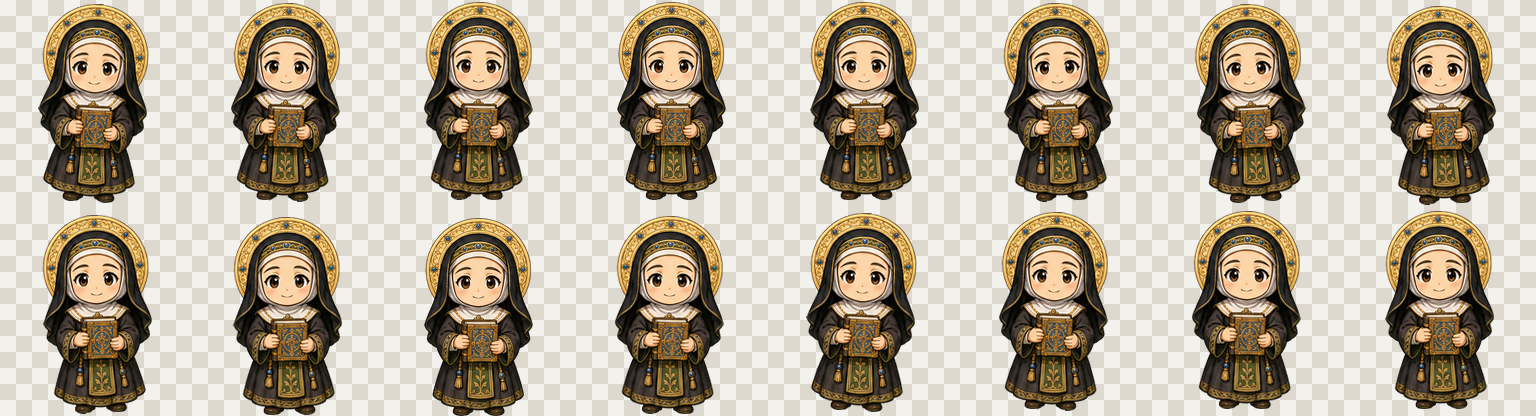
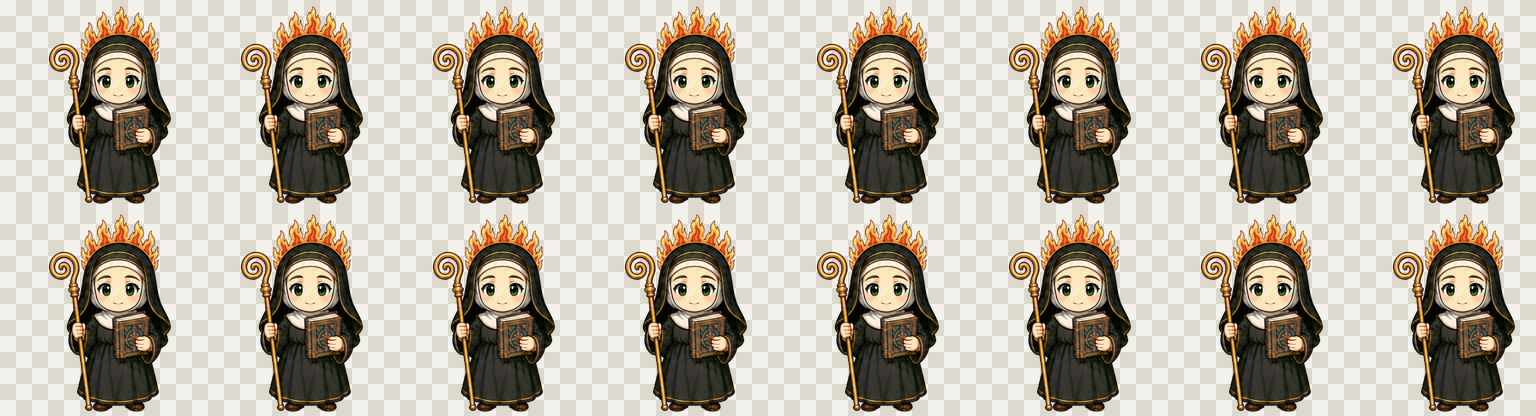
Fix Hildegard artwork and hover animation (#1)
Redraw Hildegard with corrected hands, restrained clothing, deep green eyes, vision flames, book and pastoral staff. Replace jump hover behavior with a grounded wave and remove whole-character jitter.

diff --git a/scripts/build_assets.py b/scripts/build_assets.py
@@ -11,6 +11,7 @@ from PIL import Image, ImageDraw, ImageFont, ImageOps
 
 ROOT = Path(__file__).resolve().parents[1]
 SOURCE = ROOT / "source" / "hildegard-pose-sheet.png"
+ANIMATION_SOURCE = ROOT / "source" / "hildegard-animation-sheet.png"
 ATLAS_PATH = ROOT / "package" / "spritesheet.webp"
 CONTACT_SHEET_PATH = ROOT / "assets" / "contact-sheet.png"
 LOOK_SHEET_PATH = ROOT / "assets" / "look-directions.png"
@@ -28,7 +29,7 @@ ROW_LABELS = (
     "row 1 · running-right",
     "row 2 · running-left",
     "row 3 · waving",
-    "row 4 · jumping",
+    "row 4 · hover-wave",
     "row 5 · failed",
     "row 6 · waiting",
     "row 7 · working",
@@ -37,7 +38,7 @@ ROW_LABELS = (
     "row 10 · look 180–337.5",
 )
 
-ACTIVE_FRAMES = (7, 8, 8, 4, 5, 8, 6, 6, 6, 8, 8)
+ACTIVE_FRAMES = (7, 8, 8, 8, 8, 8, 6, 6, 6, 8, 8)
 
 
 def remove_transparent_rgb(image: Image.Image) -> Image.Image:
@@ -75,6 +76,40 @@ def extract_poses(sheet: Image.Image) -> list[Image.Image]:
                 raise ValueError(f"pose {len(poses)} has no visible pixels")
             poses.append(cell.crop(bbox))
     return poses
+
+
+def extract_animation_rows(sheet: Image.Image) -> tuple[list[Image.Image], list[Image.Image]]:
+    """Extract fixed-alignment wave and idle frames from the 4×2 source sheet."""
+    if sheet.width % 4 or sheet.height % 2:
+        raise ValueError(f"animation sheet must divide into 4×2 cells: {sheet.size}")
+
+    cell_width = sheet.width // 4
+    cell_height = sheet.height // 2
+    rows: list[list[Image.Image]] = []
+    for row in range(2):
+        cells = [
+            sheet.crop(
+                (
+                    column * cell_width,
+                    row * cell_height,
+                    (column + 1) * cell_width,
+                    (row + 1) * cell_height,
+                )
+            )
+            for column in range(4)
+        ]
+        bounds = [cell.getchannel("A").getbbox() for cell in cells]
+        if any(bound is None for bound in bounds):
+            raise ValueError(f"animation row {row} contains an empty frame")
+        visible_bounds = [bound for bound in bounds if bound is not None]
+        union = (
+            min(bound[0] for bound in visible_bounds),
+            min(bound[1] for bound in visible_bounds),
+            max(bound[2] for bound in visible_bounds),
+            max(bound[3] for bound in visible_bounds),
+        )
+        rows.append([cell.crop(union) for cell in cells])
+    return rows[0], rows[1]
 
 
 def render_pose(
@@ -117,48 +152,43 @@ def render_pose(
     return remove_transparent_rgb(frame)
 
 
-def make_rows(poses: list[Image.Image]) -> list[list[Image.Image]]:
+def make_rows(
+    poses: list[Image.Image],
+    wave_sources: list[Image.Image],
+    idle_sources: list[Image.Image],
+) -> list[list[Image.Image]]:
     transparent = Image.new("RGBA", (CELL_WIDTH, CELL_HEIGHT), (0, 0, 0, 0))
     rows: list[list[Image.Image]] = []
 
-    idle_motion = (
-        (0.000, 0),
-        (0.008, -1),
-        (0.014, -2),
-        (0.008, -1),
-        (0.000, 0),
-        (-0.004, 0),
-        (0.000, 0),
-    )
-    idle = [render_pose(poses[0], scale_delta=scale, dy=dy) for scale, dy in idle_motion]
+    idle_order = (0, 0, 1, 2, 2, 1, 3)
+    idle = [render_pose(idle_sources[index]) for index in idle_order]
     rows.append(idle + [transparent.copy()])
 
-    run_motion = ((-3, 0, -2.0), (-1, -3, -1.0), (1, -5, 0.0), (3, -2, 1.0), (3, 0, 2.0), (1, -3, 1.0), (-1, -5, 0.0), (-3, -2, -1.0))
-    rows.append([render_pose(poses[1], dx=dx, dy=dy, angle=angle, max_width=184) for dx, dy, angle in run_motion])
-    rows.append([render_pose(poses[1], dx=-dx, dy=dy, angle=-angle, flip=True, max_width=184) for dx, dy, angle in run_motion])
+    run_motion = ((-2, 0), (-1, -2), (0, -3), (1, -1), (2, 0), (1, -2), (0, -3), (-1, -1))
+    rows.append([render_pose(poses[1], dx=dx, dy=dy, max_width=184) for dx, dy in run_motion])
+    rows.append([render_pose(poses[1], dx=-dx, dy=dy, flip=True, max_width=184) for dx, dy in run_motion])
 
-    wave = [render_pose(poses[3], angle=angle, dy=dy) for angle, dy in ((-1.0, 0), (1.5, -1), (-1.5, 0), (1.0, -1))]
-    rows.append(wave + [transparent.copy() for _ in range(4)])
+    wave_order = (0, 1, 2, 3, 2, 1, 0, 3)
+    wave = [render_pose(wave_sources[index]) for index in wave_order]
+    rows.append(wave)
+    # Codex v2 reserves row 4 for the pointer-hover "jump" state. Reuse the
+    # grounded wave cycle here so hovering never makes Hildegard jump.
+    rows.append([frame.copy() for frame in wave])
 
-    jump = [render_pose(poses[4], dy=dy, angle=angle, max_width=184) for dy, angle in ((0, -1.0), (-17, -2.0), (-34, 0.0), (-17, 2.0), (0, 1.0))]
-    rows.append(jump + [transparent.copy() for _ in range(3)])
+    rows.append([render_pose(poses[5]) for _ in range(8)])
 
-    rows.append([render_pose(poses[5], dx=dx, angle=angle) for dx, angle in ((0, 0), (-3, -1.4), (3, 1.4), (-2, -1.0), (2, 1.0), (-1, -0.5), (1, 0.5), (0, 0))])
-
-    waiting = [render_pose(poses[6], scale_delta=scale, dy=dy) for scale, dy in ((0, 0), (0.005, -1), (0.010, -1), (0.005, 0), (0, 0), (-0.003, 0))]
+    waiting = [render_pose(poses[6]) for _ in range(6)]
     rows.append(waiting + [transparent.copy() for _ in range(2)])
 
-    working = [render_pose(poses[7], dx=dx, dy=dy, angle=angle, max_width=188, max_height=194) for dx, dy, angle in ((0, 0, 0), (-1, 0, -0.8), (0, -1, 0), (1, 0, 0.8), (0, 0, 0), (-1, -1, -0.5))]
+    working = [render_pose(poses[7], max_width=188, max_height=194) for _ in range(6)]
     rows.append(working + [transparent.copy() for _ in range(2)])
 
-    review = [render_pose(poses[8], dx=dx, dy=dy, scale_delta=scale) for dx, dy, scale in ((0, 0, 0), (-1, -1, 0.004), (0, -2, 0.008), (1, -1, 0.004), (0, 0, 0), (0, 0, -0.003))]
+    review = [render_pose(poses[8]) for _ in range(6)]
     rows.append(review + [transparent.copy() for _ in range(2)])
 
-    upper_look = [render_pose(poses[0], dx=dx, dy=dy, angle=angle) for dx, dy, angle in ((-5, 1, -3.0), (-4, -1, -2.0), (-2, -3, -1.0), (0, -4, 0), (2, -3, 1.0), (4, -1, 2.0), (5, 1, 3.0), (3, 2, 2.0))]
-    rows.append(upper_look)
-
-    lower_look = [render_pose(poses[0], dx=dx, dy=dy, angle=angle) for dx, dy, angle in ((3, 3, 2.0), (1, 4, 1.0), (-1, 4, 0), (-3, 3, -1.0), (-5, 2, -3.0), (-4, 0, -2.0), (-2, -2, -1.0), (1, -2, 1.0))]
-    rows.append(lower_look)
+    look_frame = render_pose(idle_sources[0])
+    rows.append([look_frame.copy() for _ in range(8)])
+    rows.append([look_frame.copy() for _ in range(8)])
 
     if len(rows) != ROWS or any(len(row) != COLUMNS for row in rows):
         raise AssertionError("atlas row construction failed")
@@ -234,8 +264,10 @@ def save_idle_gif(frames: list[Image.Image]) -> None:
 
 def main() -> None:
     source = Image.open(SOURCE).convert("RGBA")
+    animation_source = Image.open(ANIMATION_SOURCE).convert("RGBA")
     poses = extract_poses(source)
-    rows = make_rows(poses)
+    wave_sources, idle_sources = extract_animation_rows(animation_source)
+    rows = make_rows(poses, wave_sources, idle_sources)
     atlas = build_atlas(rows)
 
     ROOT.joinpath("package").mkdir(exist_ok=True)
@@ -247,7 +279,7 @@ def main() -> None:
     build_look_sheet(rows).save(LOOK_SHEET_PATH, "PNG", optimize=True)
     save_idle_gif(rows[0][:7])
 
-    report = {"source": str(SOURCE.relative_to(ROOT)), "sourceSize": list(source.size), "poseCount": len(poses), "atlas": str(ATLAS_PATH.relative_to(ROOT)), "atlasSize": list(atlas.size), "grid": [COLUMNS, ROWS], "cellSize": [CELL_WIDTH, CELL_HEIGHT], "activeFrames": list(ACTIVE_FRAMES)}
+    report = {"source": str(SOURCE.relative_to(ROOT)), "sourceSize": list(source.size), "animationSource": str(ANIMATION_SOURCE.relative_to(ROOT)), "animationSourceSize": list(animation_source.size), "poseCount": len(poses), "atlas": str(ATLAS_PATH.relative_to(ROOT)), "atlasSize": list(atlas.size), "grid": [COLUMNS, ROWS], "cellSize": [CELL_WIDTH, CELL_HEIGHT], "activeFrames": list(ACTIVE_FRAMES)}
     BUILD_REPORT_PATH.write_text(json.dumps(report, ensure_ascii=False, indent=2) + "\n", encoding="utf-8")
     print(f"Built {ATLAS_PATH.relative_to(ROOT)}: {atlas.size[0]}×{atlas.size[1]}")
     print("Generated contact sheet, look-direction sheet, idle GIF and build report")

diff --git a/scripts/validate.py b/scripts/validate.py
@@ -7,7 +7,7 @@ import json
 import math
 from pathlib import Path
 
-from PIL import Image, ImageFilter
+from PIL import Image, ImageChops, ImageFilter
 
 
 ROOT = Path(__file__).resolve().parents[1]
@@ -88,6 +88,39 @@ def main() -> None:
     visible_pixels = sum(alpha > 0 for _, _, _, alpha in rgba_pixels)
     assert visible_pixels > 250_000, f"unexpected visible coverage: {visible_pixels}"
 
+    def atlas_cell(row: int, column: int) -> Image.Image:
+        left = column * EXPECTED_CELL_SIZE[0]
+        top = row * EXPECTED_CELL_SIZE[1]
+        return image.crop(
+            (
+                left,
+                top,
+                left + EXPECTED_CELL_SIZE[0],
+                top + EXPECTED_CELL_SIZE[1],
+            )
+        )
+
+    idle_foot_baselines = [
+        atlas_cell(0, column).getchannel("A").getbbox()[3]
+        for column in range(7)
+    ]
+    assert len(set(idle_foot_baselines)) == 1, (
+        f"idle baseline jitter: {idle_foot_baselines}"
+    )
+
+    wave_foot_baselines = [
+        atlas_cell(3, column).getchannel("A").getbbox()[3]
+        for column in range(8)
+    ]
+    assert len(set(wave_foot_baselines)) == 1, (
+        f"wave baseline jitter: {wave_foot_baselines}"
+    )
+    assert all(
+        ImageChops.difference(atlas_cell(3, column), atlas_cell(4, column)).getbbox()
+        is None
+        for column in range(8)
+    ), "hover row must reuse the grounded wave cycle"
+
     fringe_pixels = chroma_fringe_count(image)
     assert fringe_pixels == 0, f"source chroma fringe pixels: {fringe_pixels}"
 
@@ -108,6 +141,9 @@ def main() -> None:
         "grid": list(EXPECTED_GRID),
         "cellSize": list(EXPECTED_CELL_SIZE),
         "visiblePixels": visible_pixels,
+        "idleFootBaselines": idle_foot_baselines,
+        "waveFootBaselines": wave_foot_baselines,
+        "hoverState": "grounded-wave",
         "transparentRgbResiduePixels": transparent_rgb_residue,
         "sourceChromaFringePixels": fringe_pixels,
         "utf8Readback": "passed",

diff --git a/qa/asset-prompt.md b/qa/asset-prompt.md
@@ -4,9 +4,9 @@ Use case: stylized-concept
 
 Asset type: 3×3 production pose sheet for an animated Codex desktop pet
 
-Primary request: Create one original chibi character design of Hildegard von Bingen, shown in exactly nine separate full-body poses in a precise 3×3 layout. Each cell contains the same character with identical face, costume, proportions, palette, and rendering style. The nine poses, left to right and top to bottom: 1 calm front-facing idle holding a closed illuminated manuscript; 2 brisk walking/running toward the right holding the manuscript securely; 3 peacefully asleep curled beside the manuscript; 4 friendly wave; 5 joyful small jump while holding a sprig of healing herbs; 6 startled/worried failure reaction; 7 patient waiting pose with hands folded; 8 seated writing musical notation with a quill in an open manuscript; 9 thoughtful review pose reading an open manuscript.
+Primary request: Create one original chibi character design of Hildegard von Bingen, shown in exactly nine separate full-body poses in a precise 3×3 layout. Each cell contains the same character with identical face, costume, proportions, palette, and rendering style. The nine poses, left to right and top to bottom: 1 calm front-facing idle holding a closed illuminated manuscript and a simple upright pastoral staff; 2 brisk walking/running toward the right holding the manuscript securely; 3 peacefully asleep curled beside the manuscript; 4 natural standing wave; 5 gentle standing greeting with feet planted; 6 startled/worried failure reaction; 7 patient waiting pose with hands folded; 8 seated writing musical notation with a quill in an open manuscript; 9 thoughtful review pose reading an open manuscript. No jumping or airborne pose.
 
-Subject: Hildegard von Bingen as a warm, intelligent two-head-tall chibi Benedictine abbess, mature but gentle face, black veil and white wimple, deep charcoal-brown habit with restrained moss-green and antique-gold trim, small illuminated manuscript, optional herb sprig or quill only in the specified cells. A subtle circular golden vision motif may appear behind her head but must remain attached to the character silhouette.
+Subject: Hildegard von Bingen as a warm, intelligent two-head-tall chibi Benedictine abbess with deep forest-green eyes, a black veil and plain white wimple, and a simple charcoal-black habit with only thin antique-gold edging. A compact cluster of gold-orange-red flames sits directly above her veil in every pose to represent her visions. It is not a circular halo. Props are limited to the illuminated manuscript, pastoral staff and quill required by the listed poses.
 
 Style/medium: polished 2D game sprite art, Romanesque illuminated-manuscript color sensibility, clean dark outlines, soft restrained shading, charming and readable at 192×208 pixels, fully original and not copied from a specific artwork.
 
@@ -14,9 +14,12 @@ Composition/framing: exact 3×3 grid alignment, one isolated full-body character
 
 Scene/backdrop: perfectly flat solid #FF00FF chroma-key background covering the entire canvas and every gap.
 
-Color palette: charcoal black, warm parchment, muted moss green, antique gold, small lapis-blue accents; do not use magenta in the character.
+Color palette: charcoal black, warm parchment, muted dark blue, restrained antique gold, deep forest-green eyes and gold-orange-red vision flames; do not use magenta in the character.
 
-Constraints: the background must be one perfectly uniform #FF00FF color with no shadows, gradients, texture, floor plane, reflections, or lighting variation; crisp separated edges; no cast shadows; same character identity and costume in all nine cells; all props contained within their cell.
+Constraints: the background must be one perfectly uniform #FF00FF color with no shadows, gradients, texture, floor plane, reflections, or lighting variation; crisp separated edges; no cast shadows; same character identity and costume in all nine cells; all props contained within their cell; every visible hand has exactly five naturally separated fingers.
 
-Avoid: photorealism, modern clothing, crucifix emphasis, elaborate architecture, halos detached from the silhouette, watermark, signature, lettering, grid borders, cropped limbs, extra characters, pink or magenta subject details.
+Avoid: jumping, airborne poses, herbs, flowers, ornate embroidery, decorative apron panels, tassels, jeweled bands, circular or detached halos, excessive gold, brown eyes, photorealism, modern clothing, crucifix emphasis, architecture, watermark, signature, lettering, grid borders, cropped limbs, extra characters, pink or magenta subject details.
 
+## Animation prompt
+
+Asset type: exact 4×2 production animation sheet. Top row: four grounded standing-wave frames, with movement limited to the raised forearm, wrist and five-finger hand. Bottom row: four standing idle frames holding book and staff, with movement limited to eyelids and flame tips. Keep torso, head center, feet, scale and baseline fixed between frames. No whole-body translation, rotation, scaling, squash, bounce or sway. Use the same character, costume, colors and flat #FF00FF background as the pose sheet.

diff --git a/README.md b/README.md
@@ -10,7 +10,7 @@
 
 ## 中文
 
-小希尔德加德是一只非官方 Codex 桌宠。她身着本笃会服饰，携带手抄本、羽毛笔与药草，会根据工作、等待、审阅、运行、失败和视线方向切换动作。视觉设计借鉴罗曼式手抄本的色彩气质，角色与动画素材均为本项目原创生成和整理。
+小希尔德加德是一只非官方 Codex 桌宠。她有深绿色眼睛，头顶燃烧着代表灵视的火焰，身着简洁的本笃会服饰，站立待机时持书与牧杖。光标悬停时，她会站在原地自然挥手，不再跳跃；待机动画只保留眨眼和火焰细微变化，避免整只角色抖动。角色与动画素材均为本项目原创生成和整理。
 
 ### 图集规格
 
@@ -66,7 +66,7 @@ python3 scripts/validate.py
 
 ## English
 
-Hildegard is an unofficial Codex pet inspired by the historical figure Hildegard von Bingen. She carries an illuminated manuscript, writes musical notation, gathers herbs, and reacts to working, waiting, reviewing, running, failure, and look-direction states. The original character design combines a Benedictine habit with a restrained Romanesque manuscript palette.
+Hildegard is an unofficial Codex pet inspired by the historical figure Hildegard von Bingen. She has deep green eyes, a compact crown of vision flames, a restrained Benedictine habit, an illuminated manuscript, and a pastoral staff. Pointer hover now uses a grounded wave instead of a jump, while idle motion is limited to blinking and subtle flame changes to avoid whole-character jitter.
 
 ### Atlas specification
 

diff --git a/source/README.md b/source/README.md
@@ -2,7 +2,8 @@
 
 - `hildegard-pose-sheet-chroma.png`：图像生成工具输出的洋红背景九姿态母版。
 - `hildegard-pose-sheet.png`：经色键移除、柔化边缘及去色溢处理后的 RGBA 母版。
+- `hildegard-animation-sheet-chroma.png`：挥手与待机专用的 4×2 洋红背景动画母版。
+- `hildegard-animation-sheet.png`：去除色键后的挥手与待机 RGBA 动画母版。
 - 图集构建入口：`python3 scripts/build_assets.py`
 
-母版以希尔德加德常见的本笃会服饰、手抄本、药草与神视意象为线索，采用原创 Q 版设计。生成时未指定或仿制任何单一历史画像。
-
+母版采用原创 Q 版设计：深绿色眼睛、简洁本笃会服饰与头顶灵视火焰；站立待机时持书与牧杖。悬停行使用落地挥手帧，不含跳跃姿势。生成时未指定或仿制任何单一历史画像。
